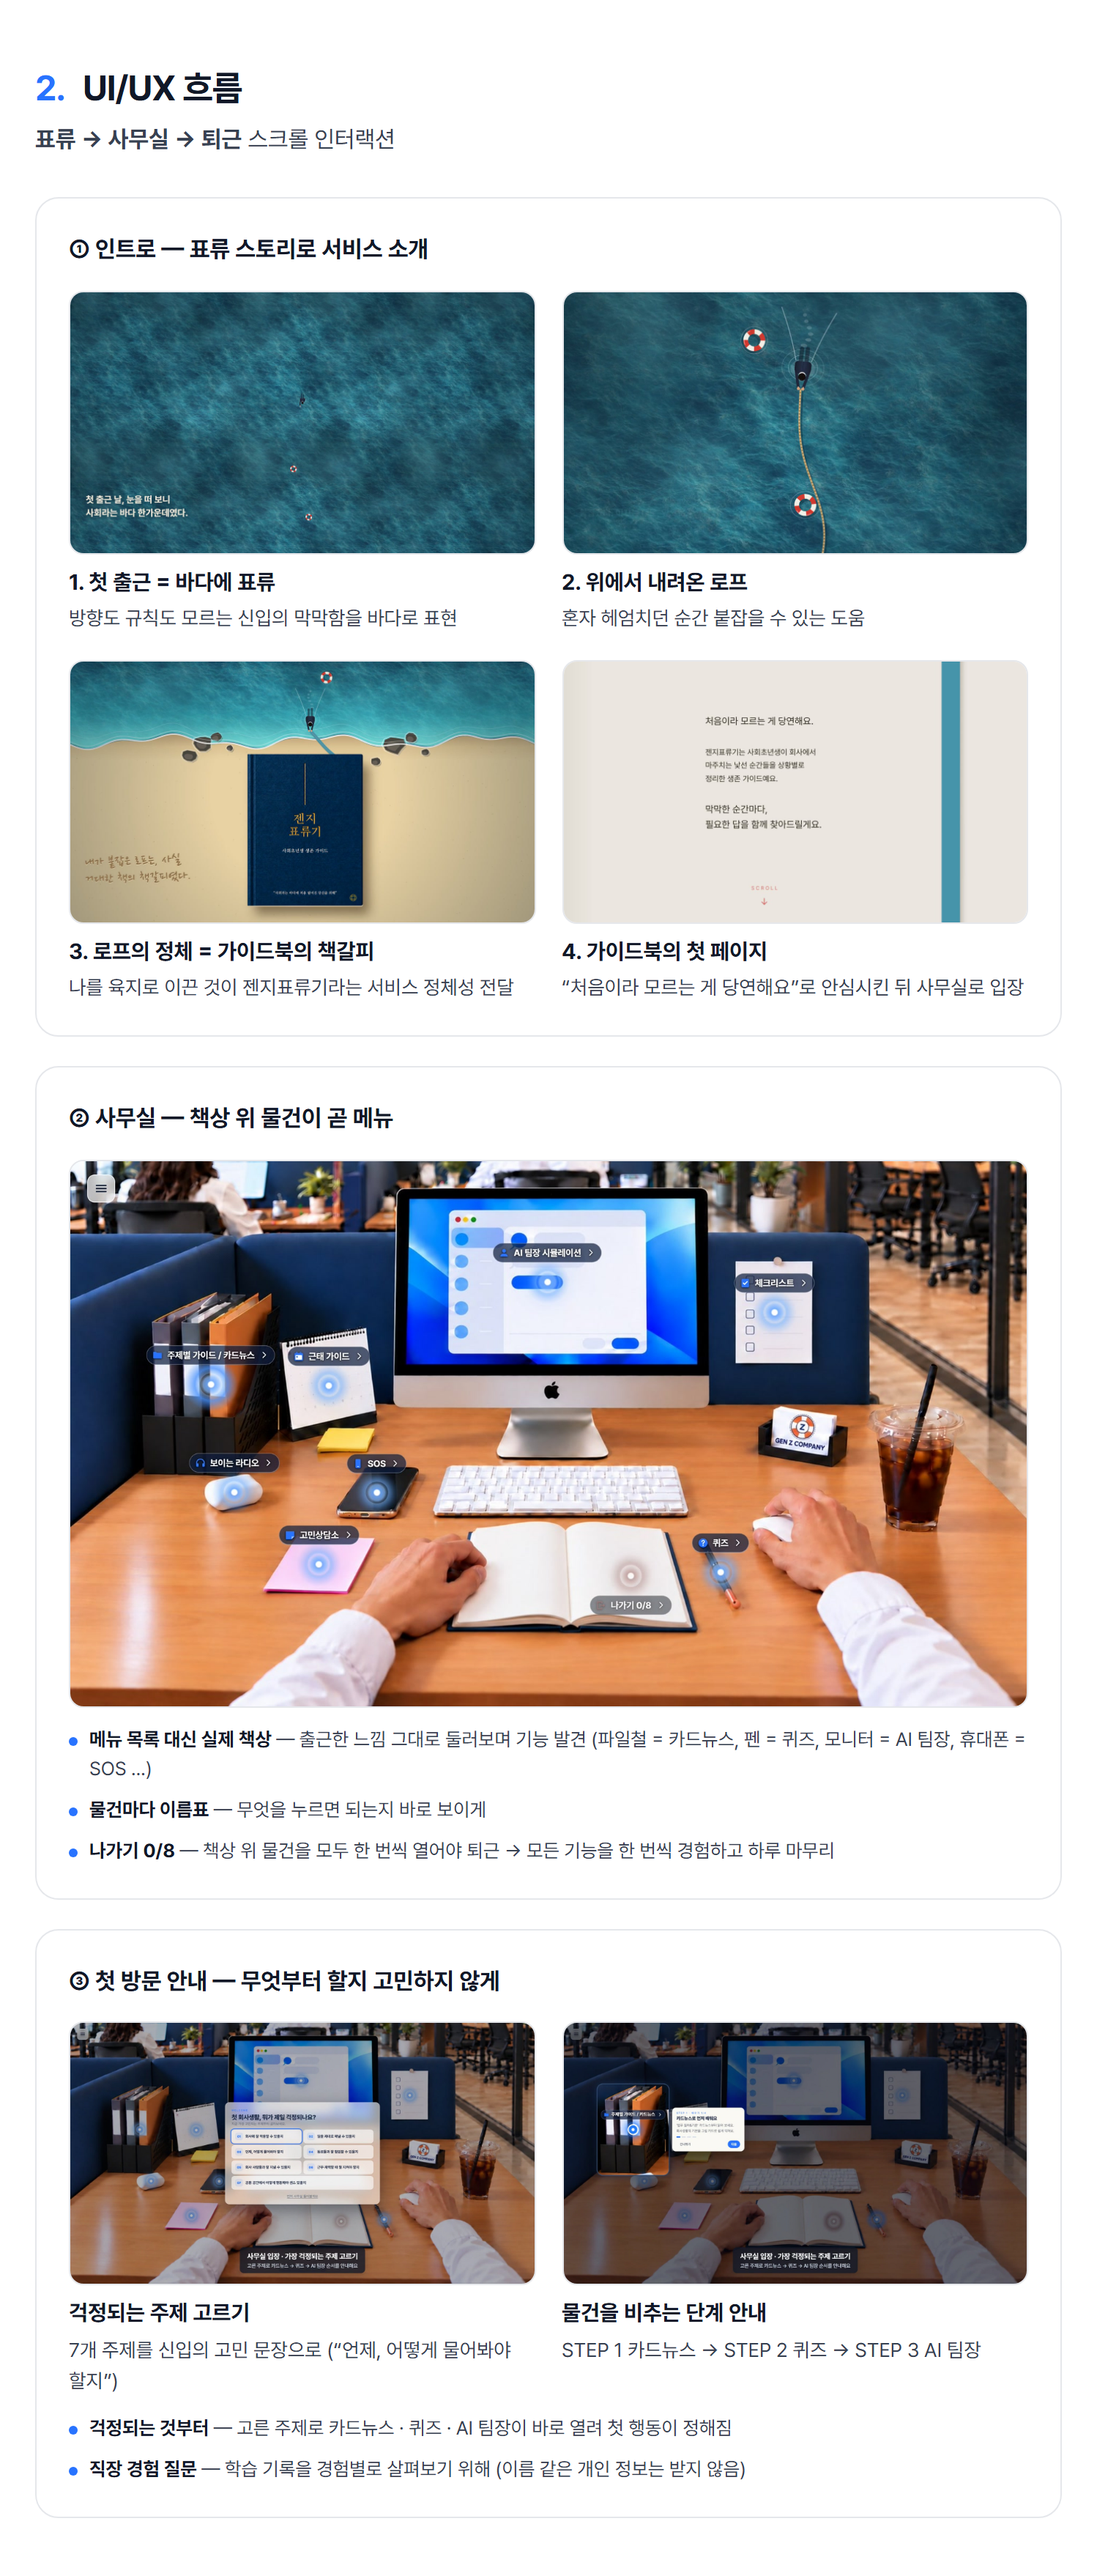
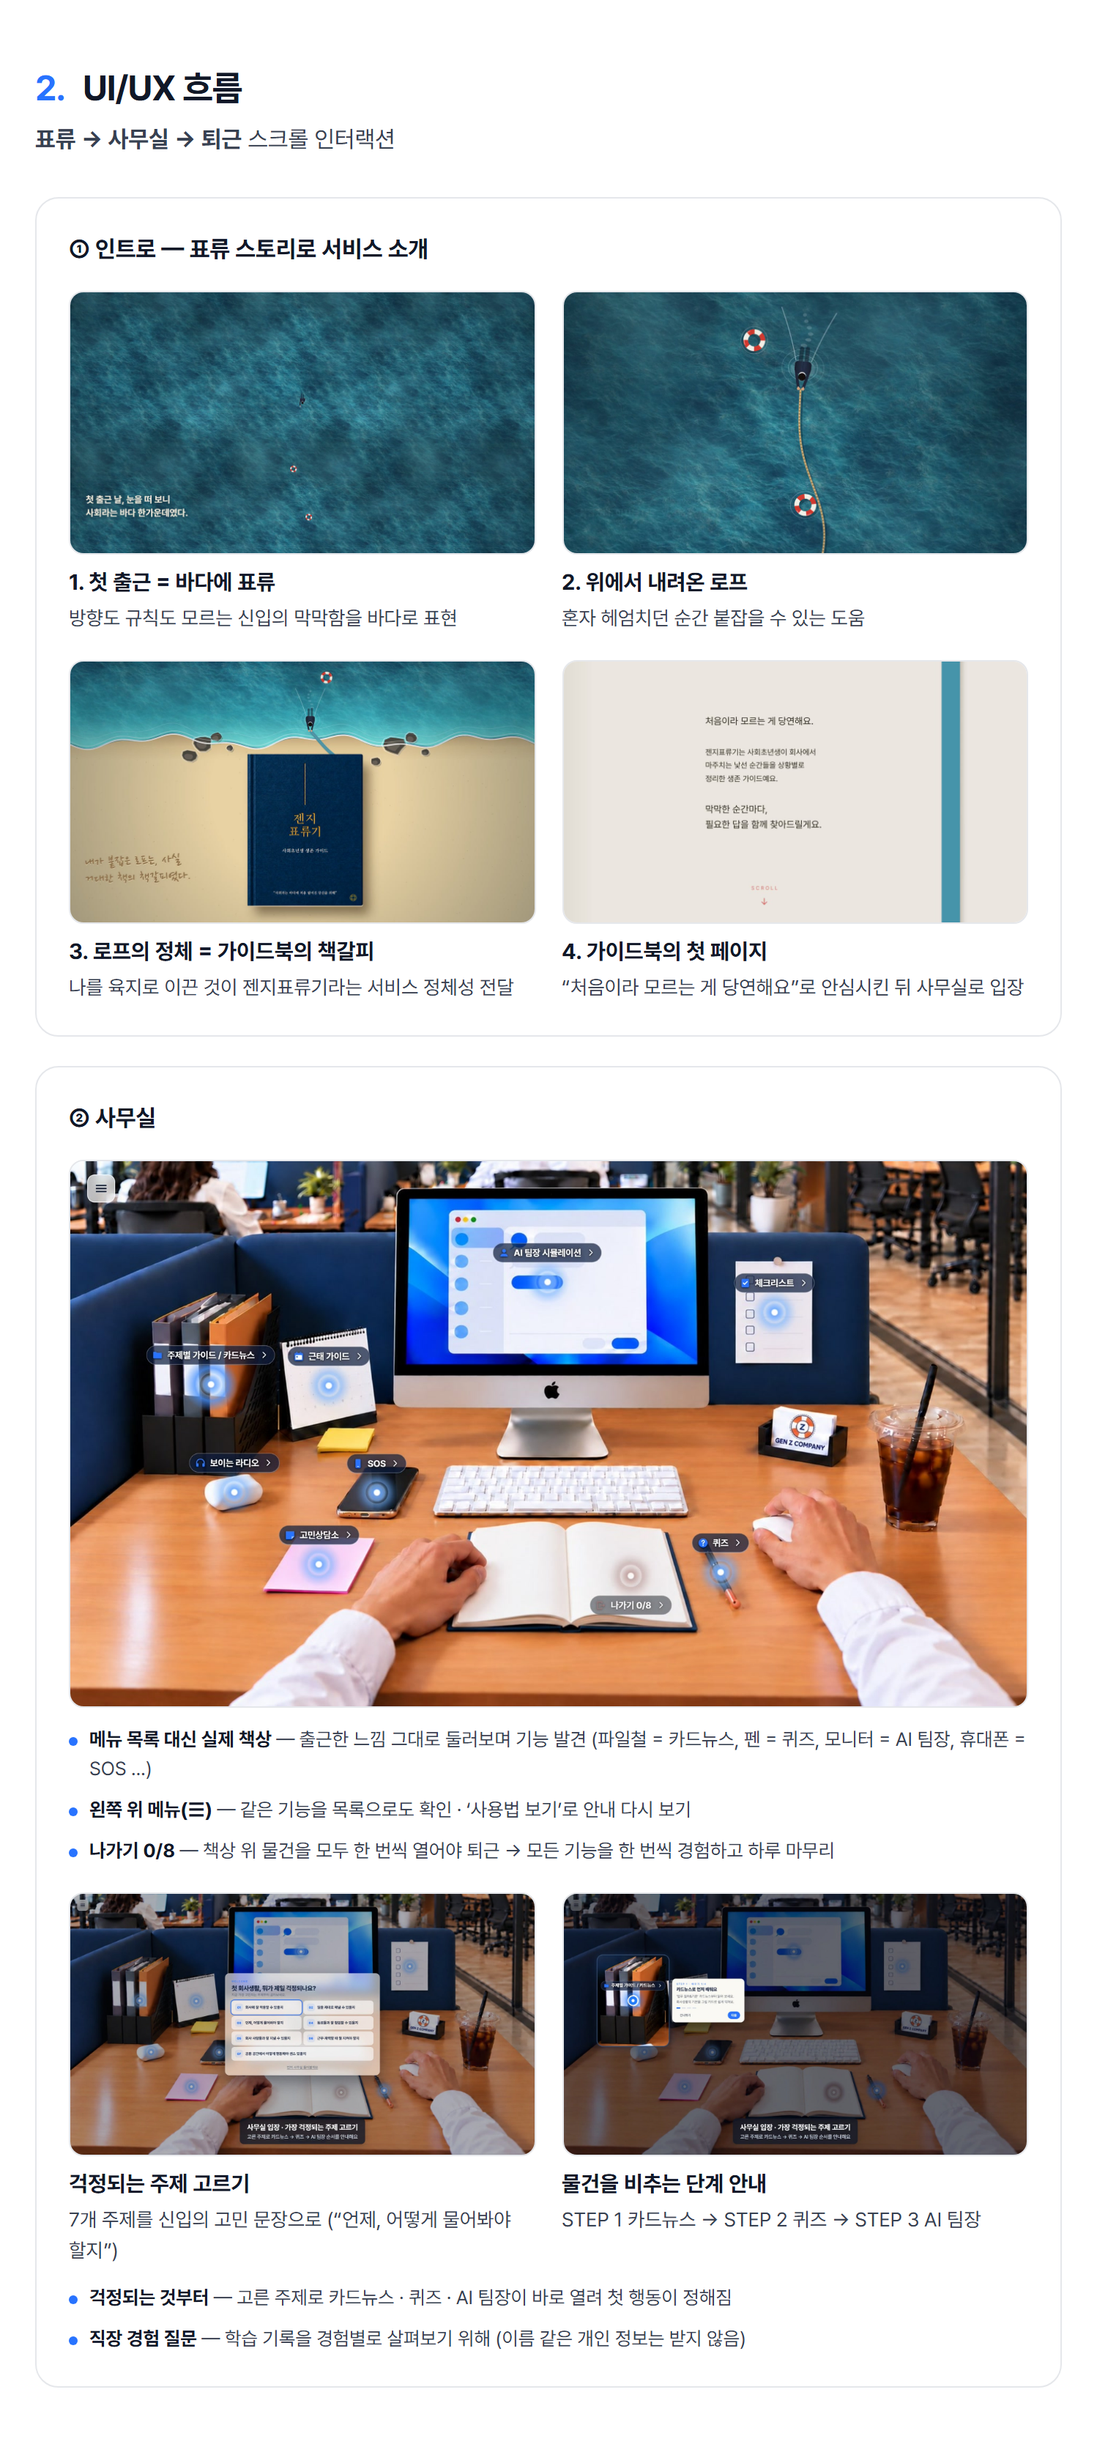
UI/UX 흐름: 사무실 패널 정리, 첫 방문 안내를 사무실로 합침, 메뉴(☰) 안내 추가

diff --git a/README.md b/README.md
@@ -40,7 +40,7 @@
 
 ![2. UI/UX 흐름 — 표류 · 사무실 · 퇴근](docs/sections/ux.png)
 
-**④ 퇴근길 아웃트로** — 인사 → 오늘의 성장 기록 → 출발점 기사 다시 보기 → 책이 덮이며 “오늘도 무사히 퇴근!”
+**③ 퇴근길 아웃트로** — 인사 → 오늘의 성장 기록 → 출발점 기사 다시 보기 → 책이 덮이며 “오늘도 무사히 퇴근!”
 
 <img src="docs/screens/outro.gif" width="100%" alt="퇴근길 아웃트로 전체 영상">
 
